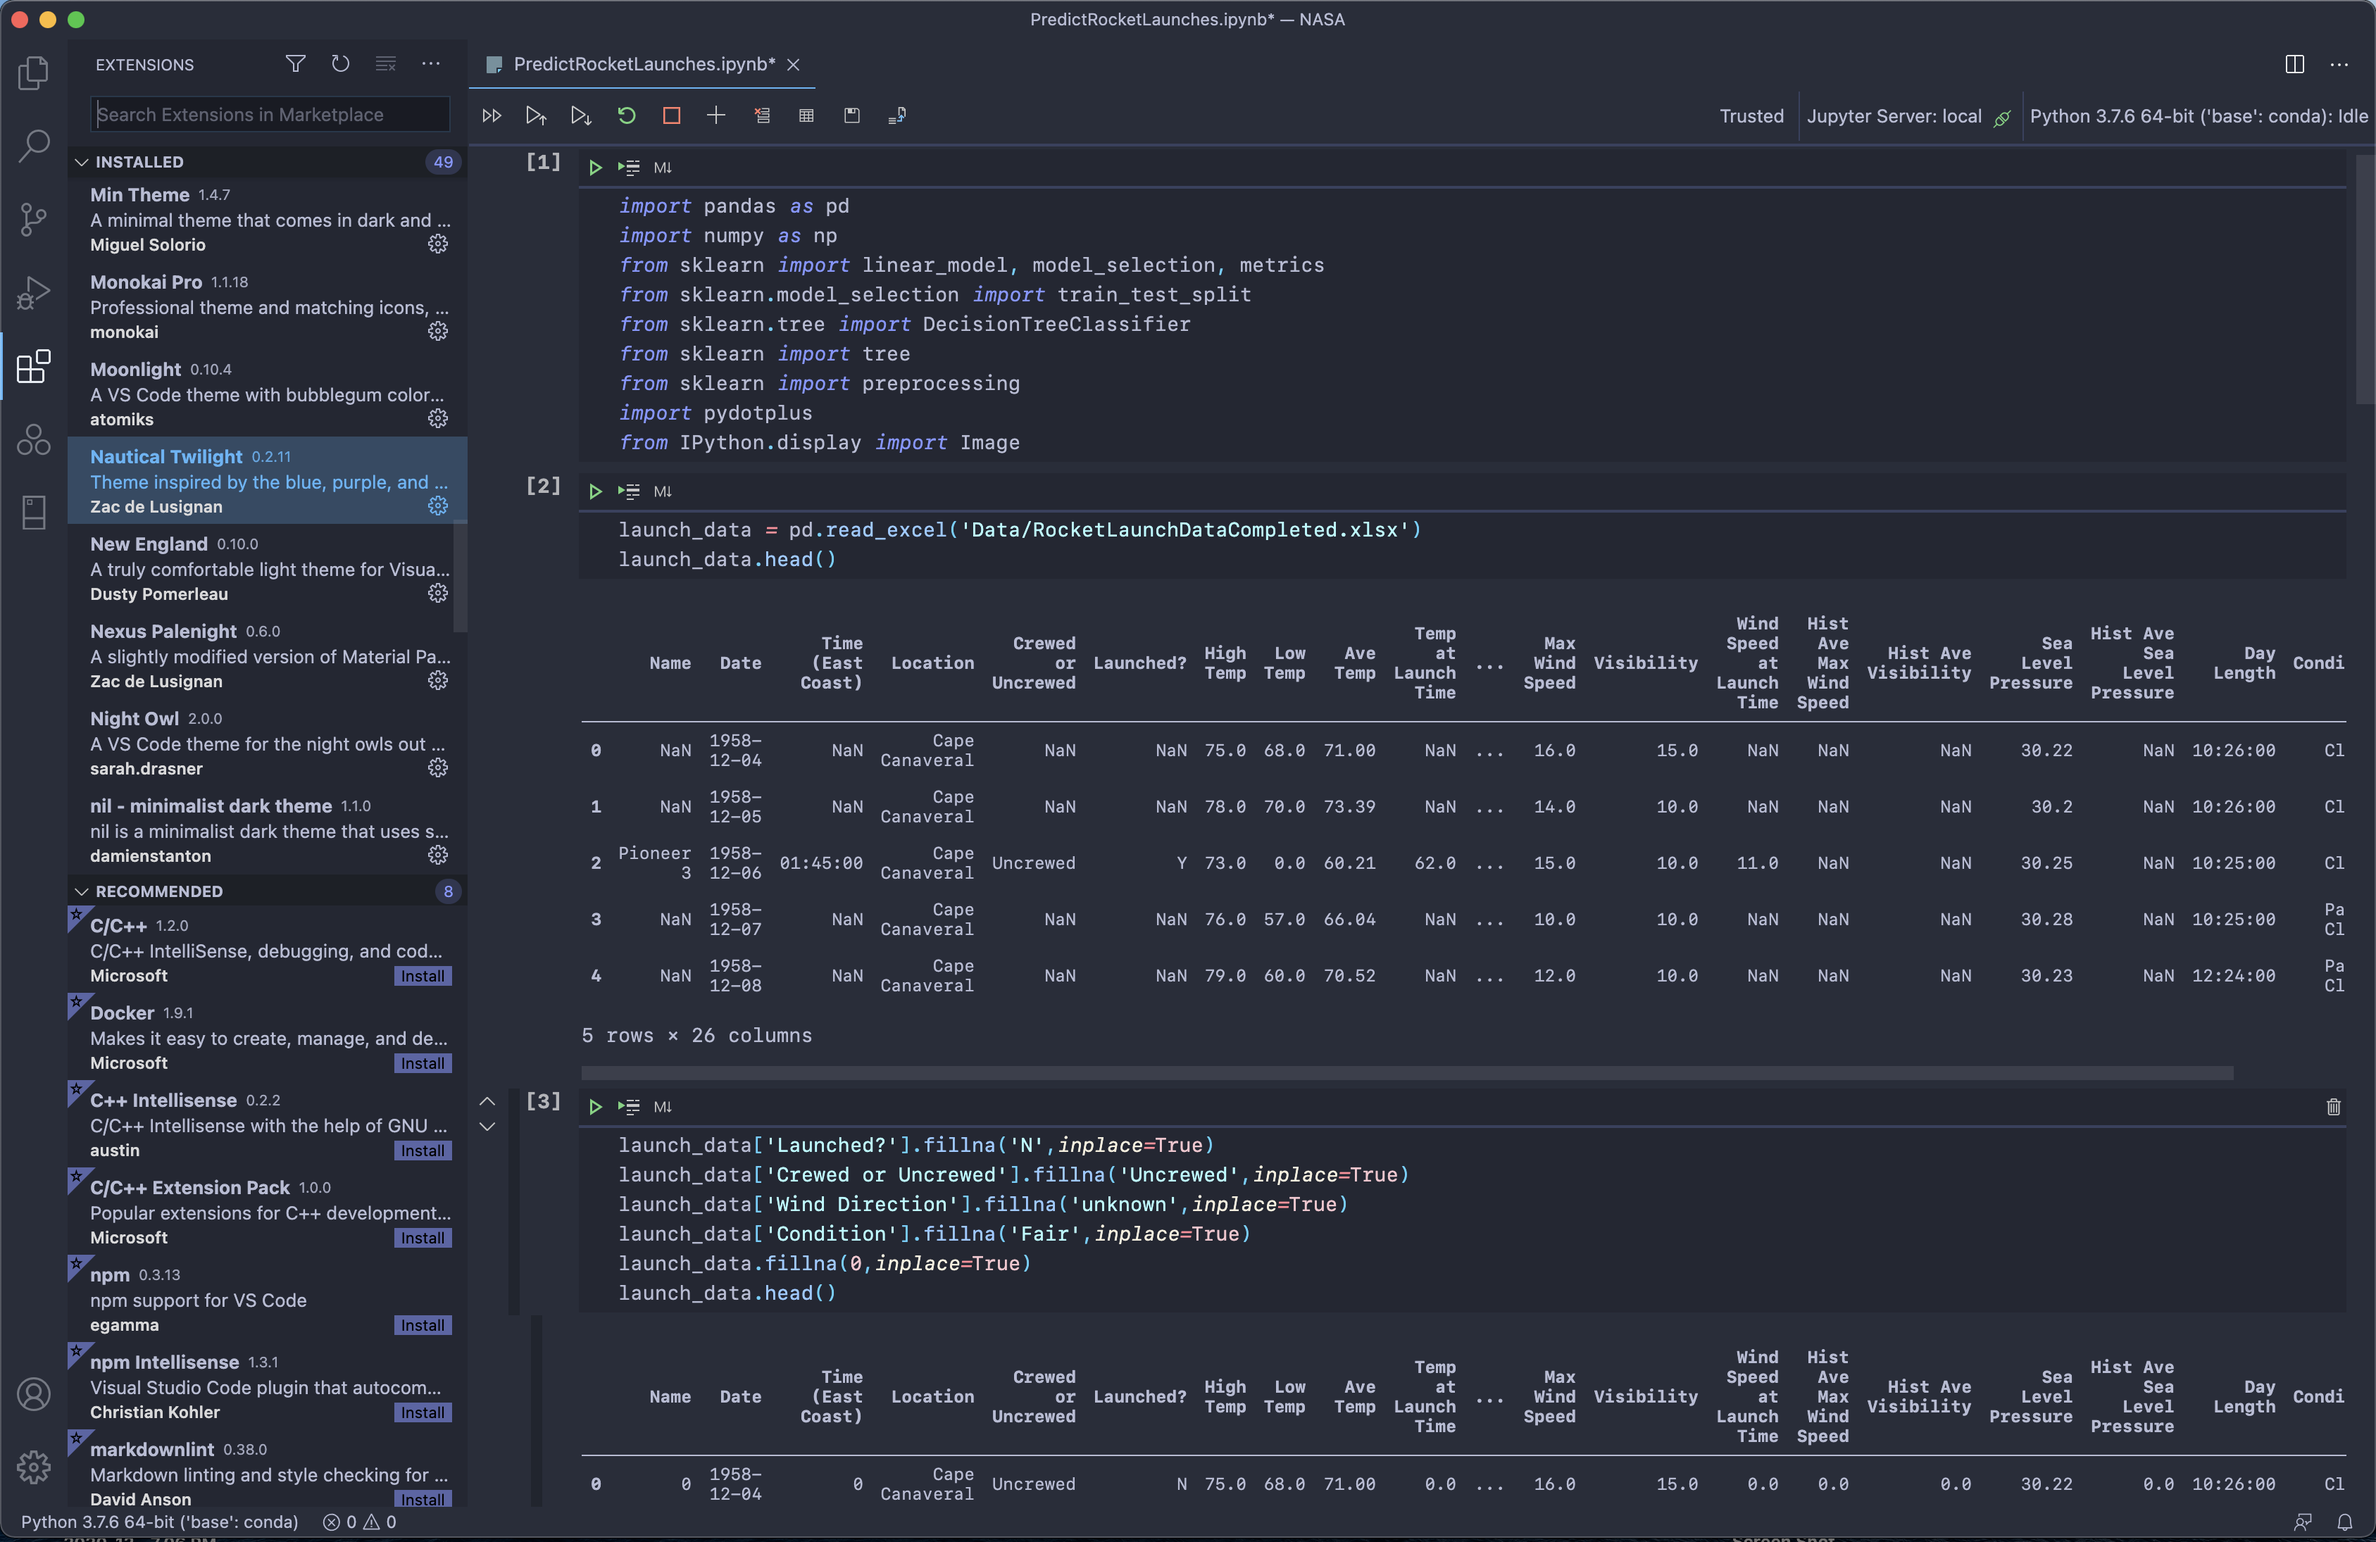
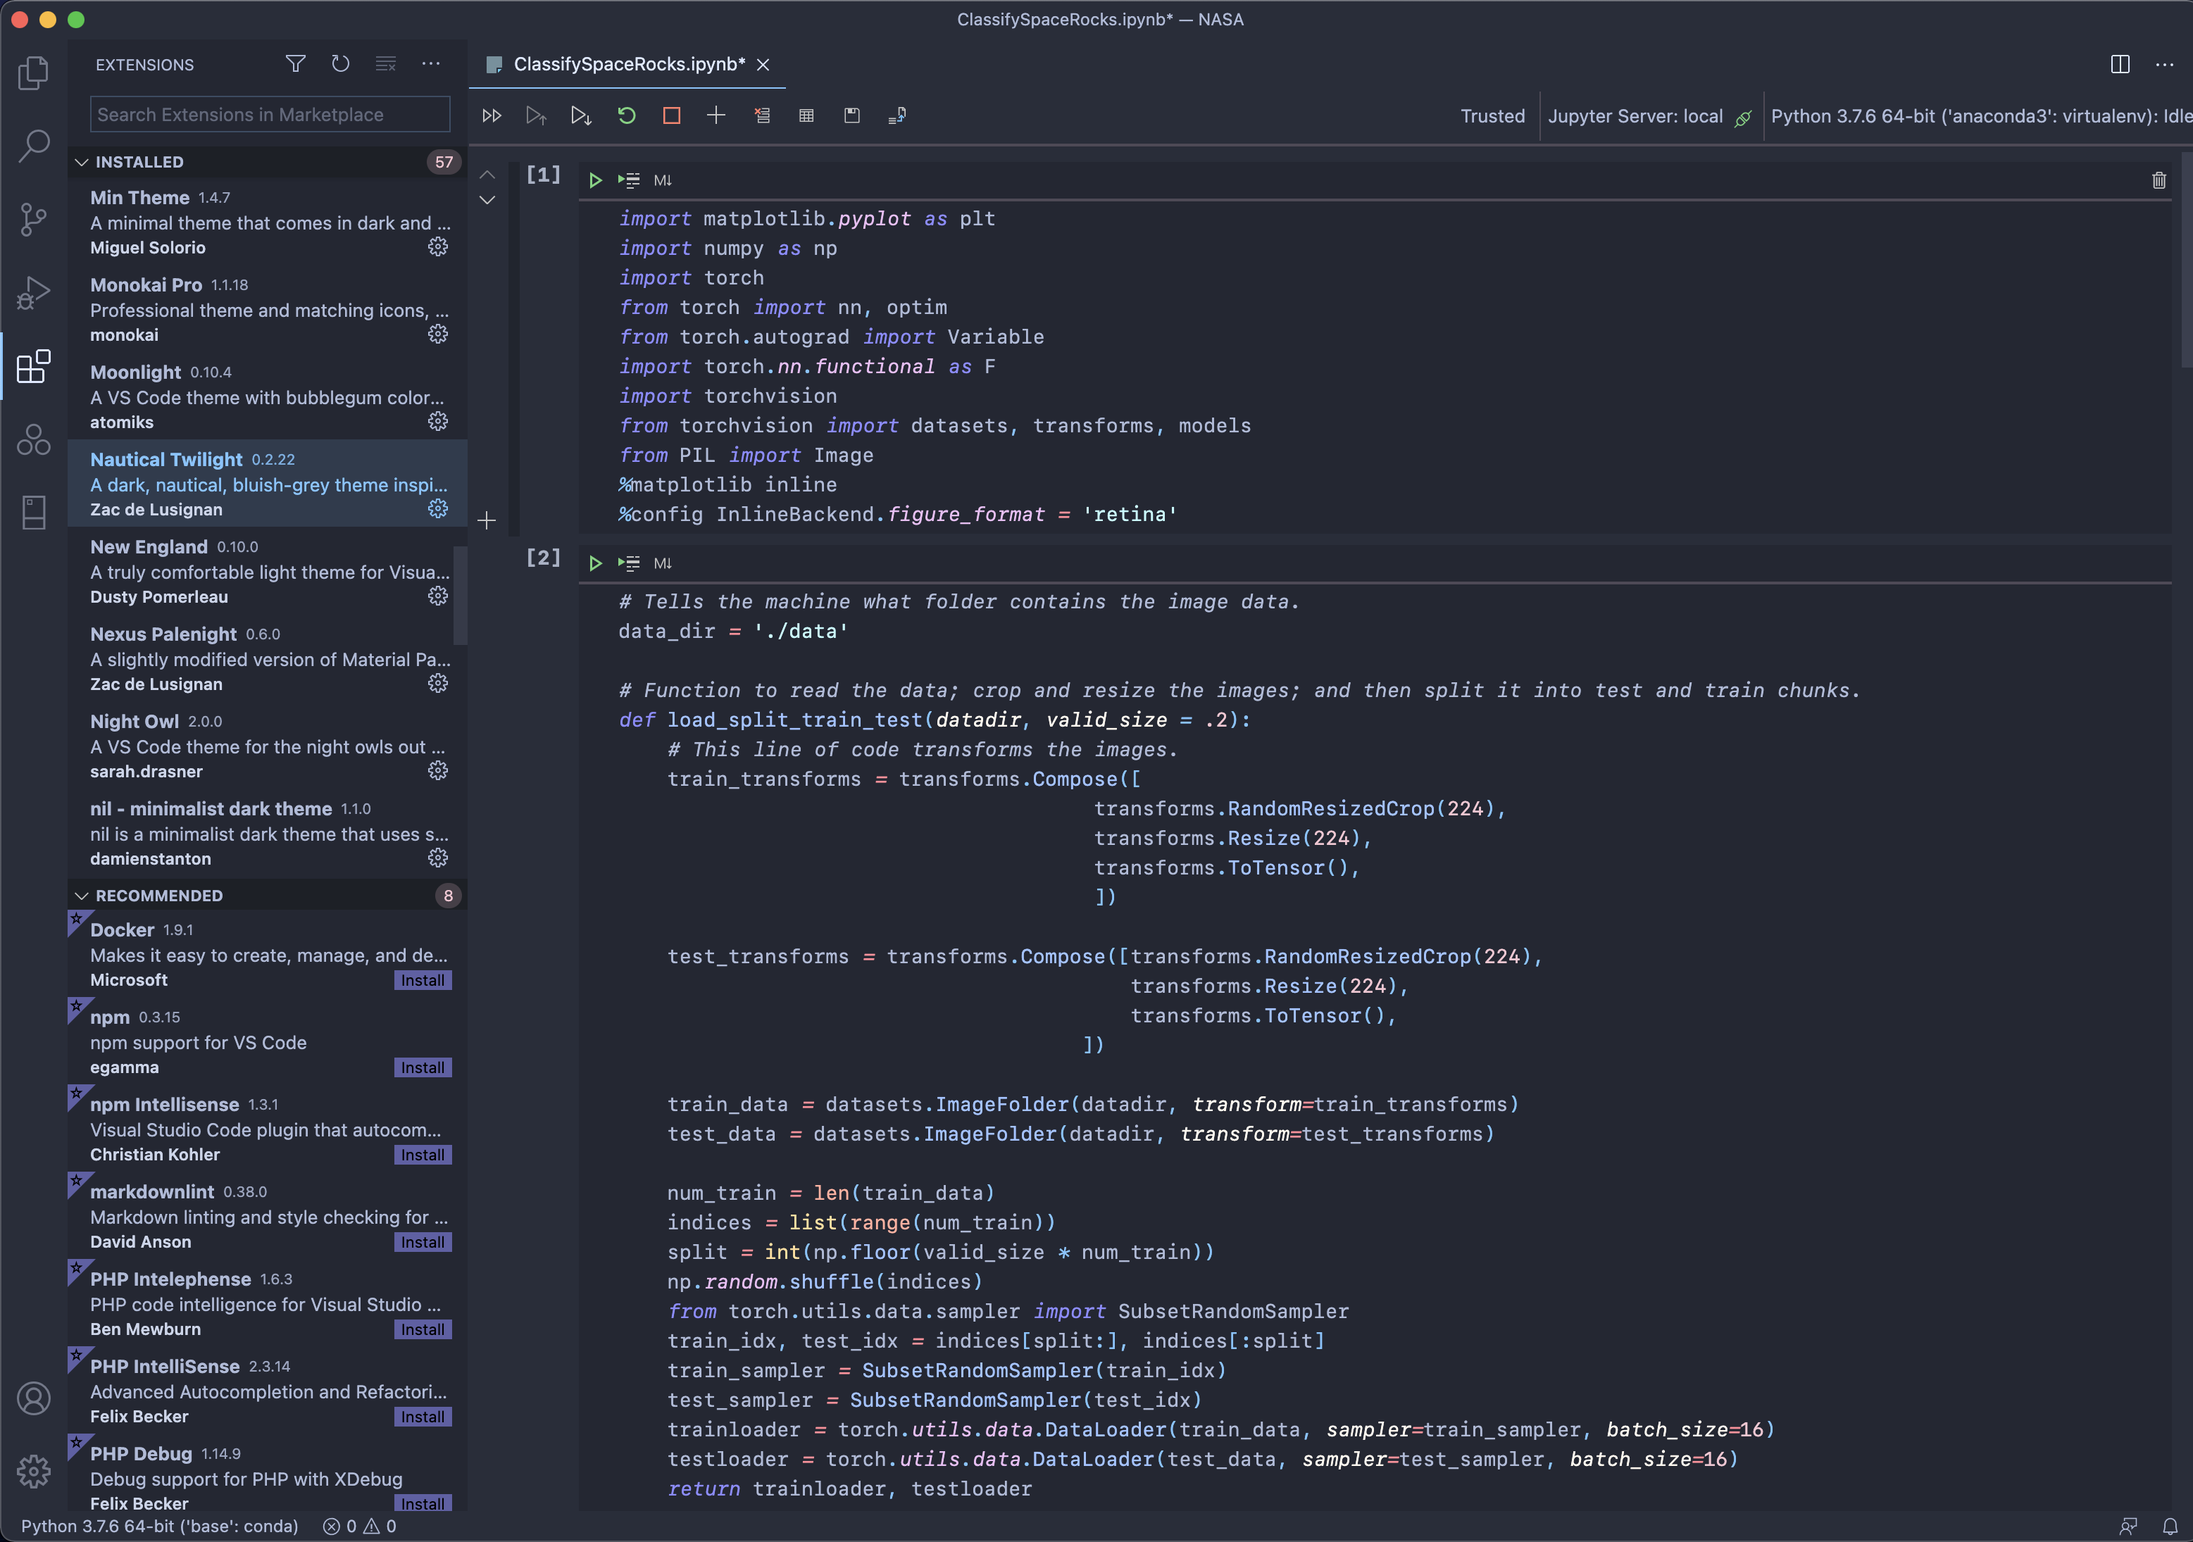
Readme

diff --git a/README.md b/README.md
@@ -2,11 +2,14 @@
 
 # Nautical Twilight
 
-A nautical blue theme for [Visual Studio Code](https://code.visualstudio.com). 🌅⚓
+A nautical grey-blue theme for [Visual Studio Code](https://code.visualstudio.com). 🌅⚓
 
 ## Screenshots
+
+### Python
 ![Python Example](img/Python.png)
 
+### Jupyter Notebooks
 ![Notebook Example](img/notebook.png)
 
 ## Acknowledgments
